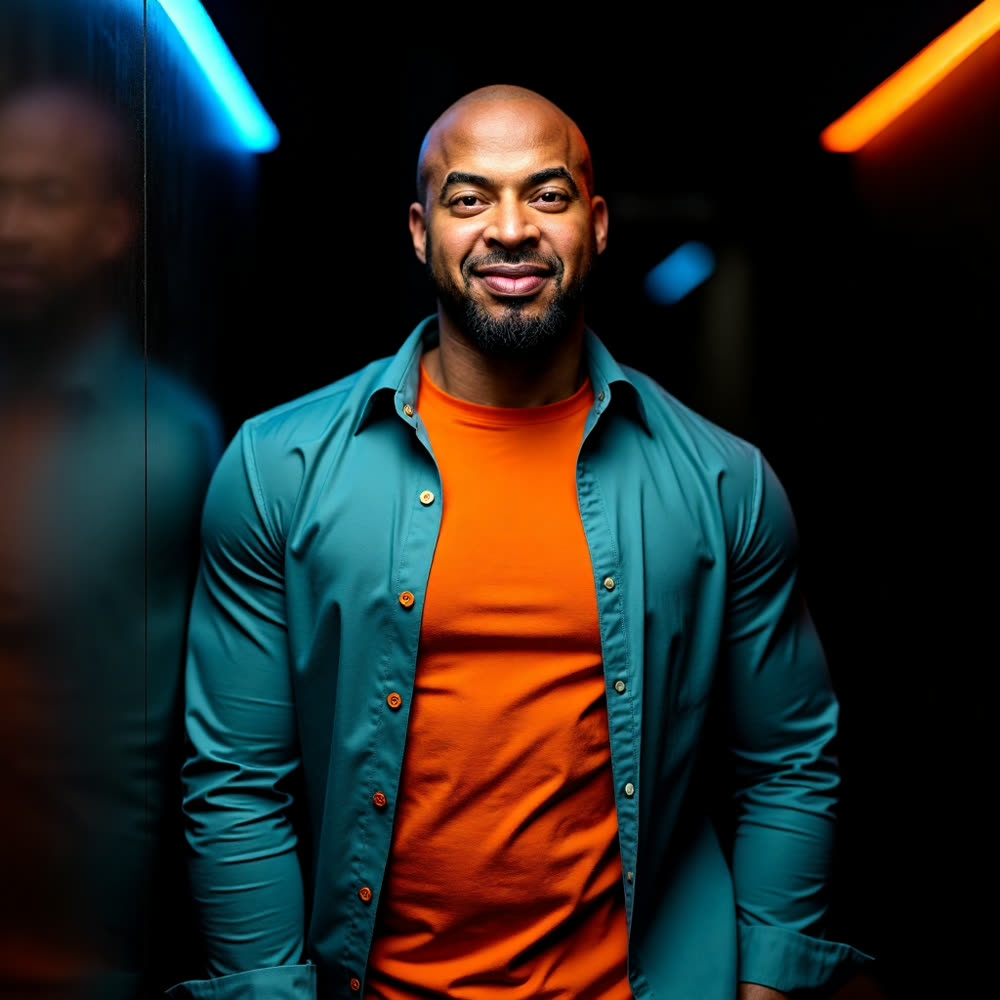
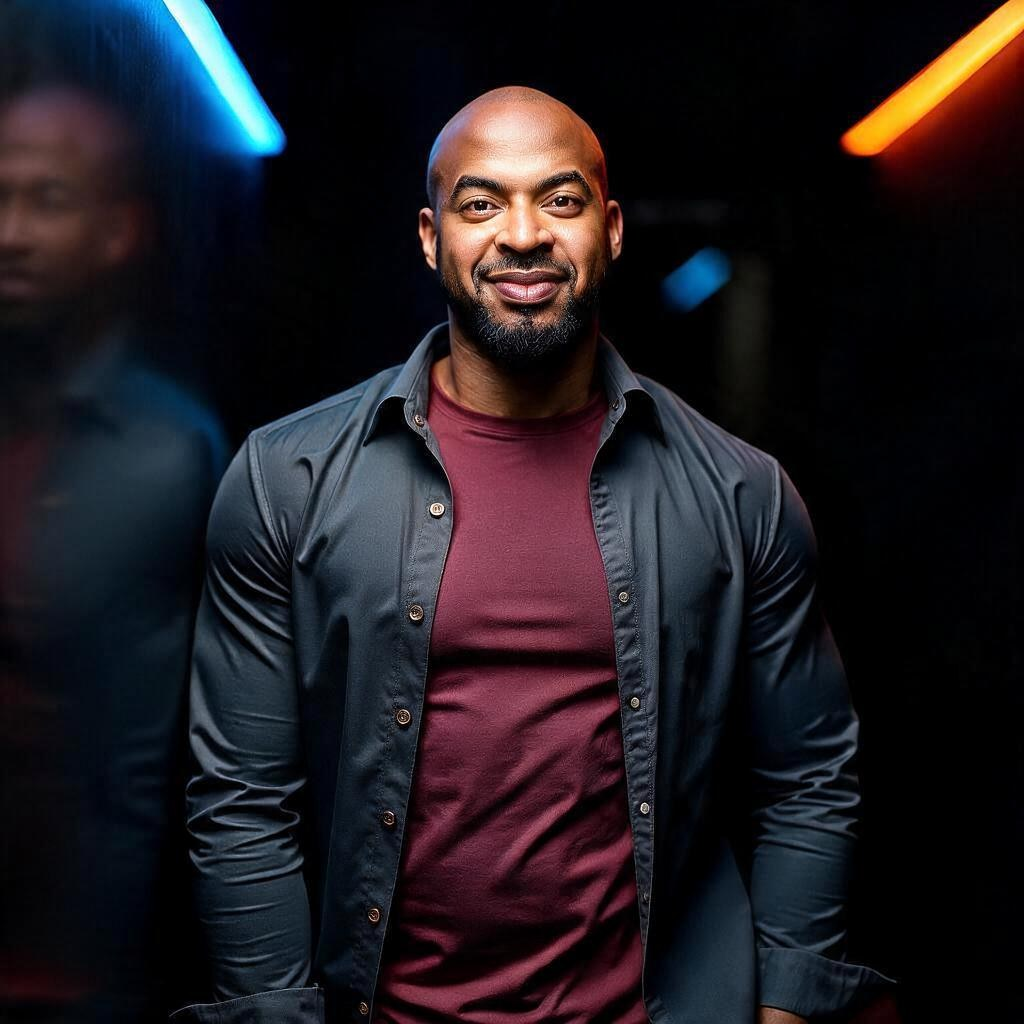
feat(landing): new founder portrait and larger name caption
Swap the About/founder photo to the updated charcoal-shirt portrait and
enlarge the on-photo caption so "Corey Ellis" reads at 20px (was 10px)
with "Founder" as a smaller sub-label beneath it.

diff --git a/src/app/globals.css b/src/app/globals.css
@@ -1253,7 +1253,9 @@ footer{background:var(--ink2);border-top:1px solid var(--ink);padding:52px;posit
 
 /* ─── Founder section — Case Zero proof story (#about, dark section) ─── */
 .about-portrait{width:100%;height:100%;object-fit:cover;display:block}
-.about-photo-cap{position:absolute;bottom:0;left:0;right:0;padding:12px 16px;font-family:var(--signal);font-size:10px;letter-spacing:.16em;text-transform:uppercase;color:rgba(248,241,231,.9);background:linear-gradient(to top,rgba(0,0,0,.78),transparent)}
+.about-photo-cap{position:absolute;bottom:0;left:0;right:0;padding:18px 18px 15px;font-family:var(--signal);text-transform:uppercase;color:rgba(248,241,231,.95);background:linear-gradient(to top,rgba(0,0,0,.86),rgba(0,0,0,.34) 55%,transparent)}
+.about-cap-name{display:block;font-size:20px;font-weight:600;letter-spacing:.06em;line-height:1.1;text-shadow:0 1px 10px rgba(0,0,0,.5)}
+.about-cap-role{display:block;margin-top:4px;font-size:10px;letter-spacing:.24em;color:rgba(248,241,231,.66)}
 .cz-card{margin:0 0 26px;border:1px solid rgba(255,90,31,.35);border-radius:14px;background:linear-gradient(150deg,rgba(255,90,31,.10),rgba(10,10,10,.25));padding:22px 24px}
 .cz-k{font-family:var(--signal);font-size:11px;letter-spacing:.22em;text-transform:uppercase;color:var(--orange);margin-bottom:8px}
 .cz-score{font-family:var(--flair);font-weight:600;font-size:64px;line-height:.9;color:#ff7a1f}

diff --git a/src/components/SignalFlairLanding.tsx b/src/components/SignalFlairLanding.tsx
@@ -1292,7 +1292,7 @@ export default function SignalFlairLanding() {
         <div className="about-inner">
           <div className="about-photo reveal">
             <img className="about-portrait" src="/founder.jpg" alt="Corey Ellis, founder of Signal Flair" loading="lazy" fetchPriority="low" />
-            <div className="about-photo-cap">Corey Ellis · Founder</div>
+            <div className="about-photo-cap"><span className="about-cap-name">Corey Ellis</span><span className="about-cap-role">Founder</span></div>
           </div>
           <div className="about-copy reveal">
             <div className="about-eyebrow">The founder · the proof story</div>
